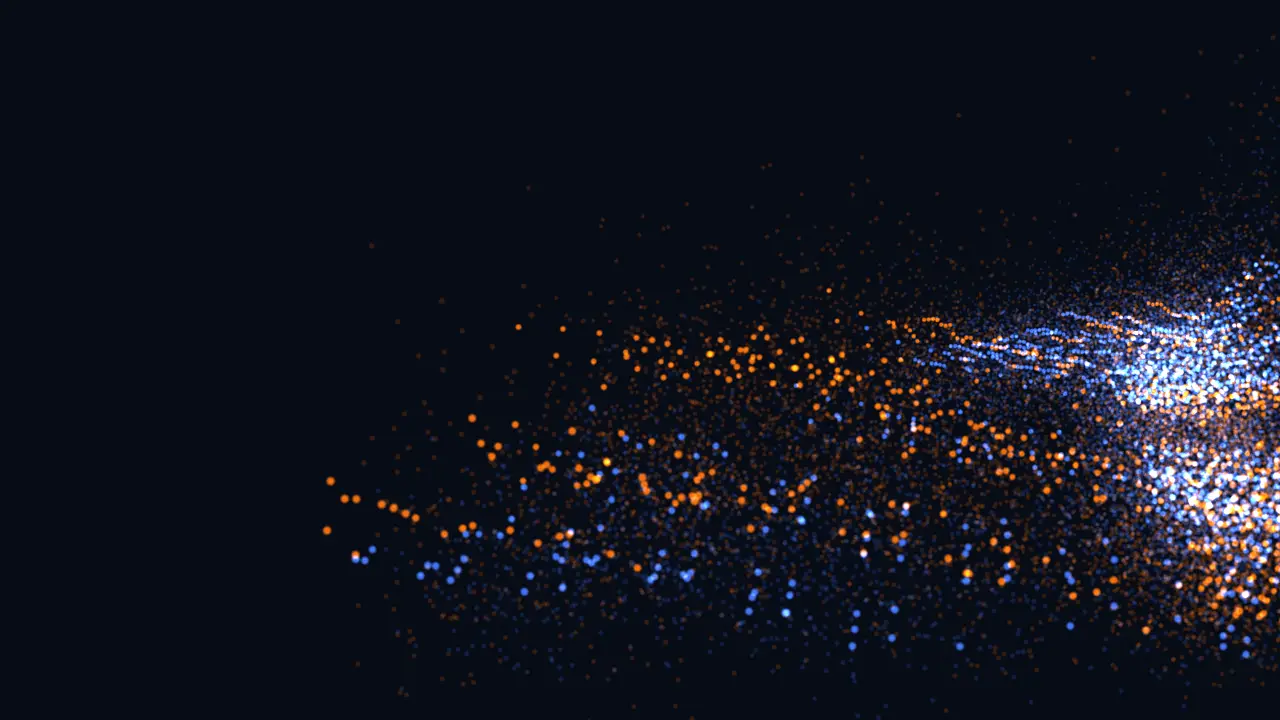
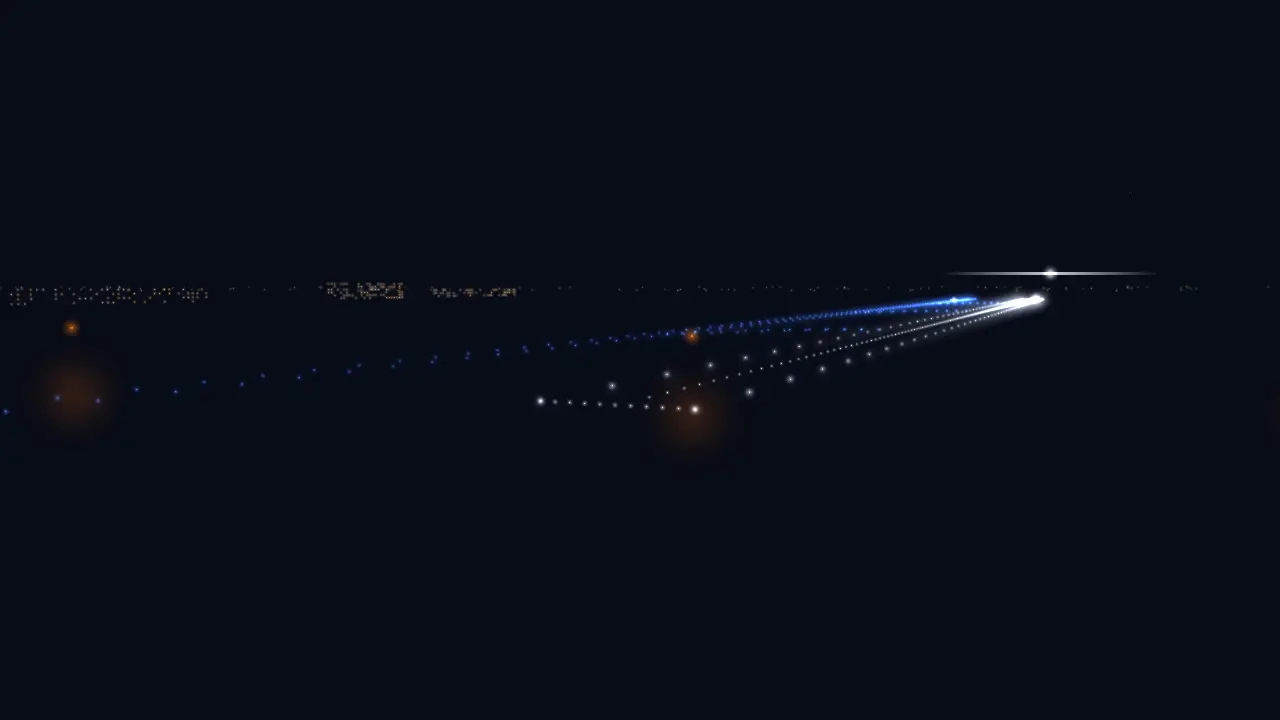
test: airport hero e2e; regenerate hero fallback
캡처 모드(hero)와 움직임 줄이기 대체 이미지 e2e를 더한다. 캡처 캔버스 선택자를
.backdrop canvas로 좁힌다 — 차트 섹션의 chart-canvas들과 겹쳐 strict mode
locator가 여러 개를 찾던 문제. npm run fallbacks로 hero.webp를 밤의 공항
장면(카메라 A, 불 다 켜짐)으로 다시 캡처했다.

diff --git a/tests/e2e/airport.spec.ts b/tests/e2e/airport.spec.ts
@@ -27,3 +27,32 @@ test('3D가 켜져도 첫 화면 이름 위치가 그대로다(여백은 화면 
   const after = await page.locator('.hero-name').boundingBox();
   expect(Math.abs(after!.y - before!.y)).toBeLessThanOrEqual(1);
 });
+
+test.describe('움직임 줄이기(3D 꺼짐)', () => {
+  test.use({ reducedMotion: 'reduce' });
+  test('첫 화면 대체 이미지와 이름이 보인다', async ({ page }) => {
+    await page.goto('/');
+    await expect(page.locator('html')).toHaveAttribute('data-3d', 'off');
+    await expect(page.locator('.hero .scene-figure img')).toBeVisible();
+    await expect(page.locator('.hero-name')).toBeVisible();
+  });
+});
+
+test('캡처 모드(hero)는 공항 장면을 그린다', async ({ page }) => {
+  await page.goto('/?capture=hero');
+  await page.waitForFunction(() => (window as Window & { __sceneReady?: boolean }).__sceneReady === true, null, { timeout: 30_000 });
+  // 캔버스 윗부분(하늘·지평선)보다 아래(활주로)에 밝은 화소가 더 많다 — 지형(가운데 덩어리)이 아닌 공항 구도
+  // .backdrop canvas로 좁힌다 — 캡처 모드에서도 페이지 아래 섹션의 chart-canvas(SVG 대체 등)가 함께 떠 있다
+  const ratio = await page.locator('.backdrop canvas').evaluate((c: HTMLCanvasElement) => {
+    const g = document.createElement('canvas'); g.width = c.width; g.height = c.height;
+    const x = g.getContext('2d')!; x.drawImage(c, 0, 0);
+    const d = x.getImageData(0, 0, g.width, g.height).data;
+    let top = 0, bottom = 0;
+    for (let y = 0; y < g.height; y++) for (let i = 0; i < g.width; i++) {
+      const k = (y * g.width + i) * 4; if (d[k] + d[k + 1] + d[k + 2] < 300) continue;
+      if (y < g.height * 0.35) top++; else bottom++;
+    }
+    return bottom / Math.max(1, top);
+  });
+  expect(ratio).toBeGreaterThan(3);
+});
